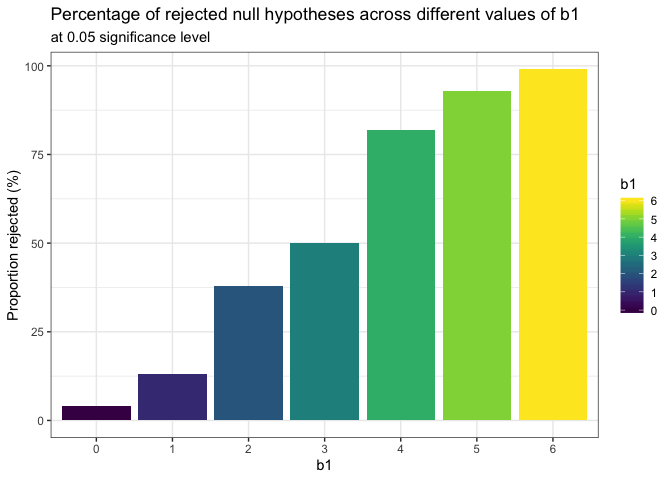
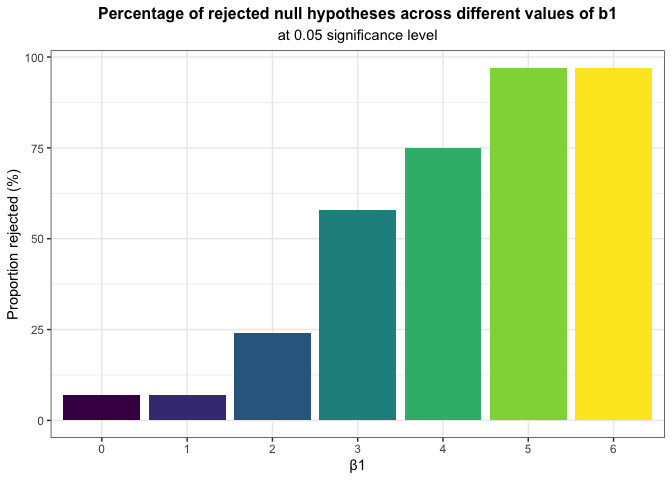
problem 3 -- last graph (without comment)

diff --git a/hw5.md b/hw5.md
@@ -162,7 +162,7 @@ patient_data_clean %>%
 ## Problem 3
 
 ``` r
-set.seed(77)
+set.seed(7)
 
 sim_regression = function(n = 30, beta0 = 2, beta1) { #make function for with set paramaters "variable" beta1
     sim_data = tibble(                                #tibble with x explanatory variable following normal distribution with mean = 0 and sd = 1
@@ -176,9 +176,9 @@ sim_regression = function(n = 30, beta0 = 2, beta1) { #make function for with se
 
 ``` r
 sim_results = 
-  tibble(b1 = c(0, 1, 2, 3, 4, 5, 6)) %>%            #start with a 6x1 tibble with true set b1 values 
+  tibble(beta1 = c(0, 1, 2, 3, 4, 5, 6)) %>%            #start with a 6x1 tibble with true set b1 values 
   mutate(
-    output_lists = map(.x = b1,                      #set values to iterate over as b1
+    output_lists = map(.x = beta1,                      #set values to iterate over as b1
                        ~rerun(100,                   #rerun a demo of 100 estimates per b1
                               sim_regression(beta1 = .x))), #mass apply using function sim_regression defined above
     estimate_dfs = map(output_lists,                 #mass apply bind_rows to output_lists
@@ -193,21 +193,67 @@ significance level 0.05 (estimate different from 0):
 ``` r
 sim_results %>% 
   filter(p.value < 0.05) %>%              #filter out only p-values less than 0.05 
-  group_by(b1) %>%                        #group by true parameter
-  summarize(pct_rej = 100*n()/100)%>%       #create variable pct
-  ggplot(aes(x = factor(b1),              #set variables for x, y axes and by group (b1)
+  group_by(beta1) %>%                     #group by true parameter
+  summarize(pct_rej = 100*n()/100)%>%     #create variable pct
+  ggplot(aes(x = factor(beta1),           #set variables for x, y axes and by group (beta1)
              y = pct_rej, 
-             fill = b1)) + 
+             fill = beta1)) + 
   geom_bar(stat = "identity") +           #create bar graph
   labs(title = "Percentage of rejected null hypotheses across different values of b1",
        subtitle = "at 0.05 significance level",
-       x = "b1",
+       x = "β1",
        y = "Proportion rejected (%)") +
   viridis::scale_fill_viridis() +         #choose viridis color scheme
-  theme(legend.position = "none",         #customize appearance/annotations
+  theme_bw() + 
+  theme(legend.position = "none",   #customize appearance/annotations
         plot.title = element_text(hjust = 0.5, size=12, face='bold'),
-        plot.subtitle = element_text(hjust = 0.5, size=11)) + 
-  theme_bw()
+        plot.subtitle = element_text(hjust = 0.5, size=11))
 ```
 
 ![](hw5_files/figure-gfm/unnamed-chunk-10-1.png)<!-- -->
+
+We can see that as effect size (difference between b1 and 0) increases,
+the proportion of the times the null hypothesis was rejected (the power)
+is higher. In other words, power of the test is positively associated
+with effect size. This is because as the population mean under the
+alternative hypothesis moves away from the mean under the null, the two
+distributions are less overlapped, resulting in lower type II error
+(falsely failing to reject the null) and increased
+power.
+
+``` r
+rej_null_df =                       #create dataset with only rejected null hypotheses
+  sim_results %>% 
+  filter(p.value < 0.05) %>%        #subset from original dataset with p-value < 0.05
+  group_by(beta1) %>%               #group by beta1 to calculate mean of slope estimates
+  mutate(avg_est = mean(estimate),  #make new variable for estimate mean (among filtered)
+         status = "reject")         #make new variable to indicate status of the slope estimate (different from 0) and estimate mean
+
+original_sim_df =                   #do the same thing as above for original dataset
+  sim_results %>% 
+  group_by(beta1) %>%  
+  mutate(avg_est = mean(estimate),  #same variable as above for estimate mean (among all)
+         status = "all")            #same var as above to indicate the estimate mean is for all slope estimates
+
+sim_results_df = rbind(original_sim_df, rej_null_df)  #row bind filtered and original datasets
+  
+sim_results_df %>% 
+  ggplot(aes(x = beta1,                  #set values for x, y axes and group for plot
+             y = avg_est,
+             colour = status)) + 
+  geom_point(size = 2, alpha =  0.7) +   #add points and customize
+  geom_line(alpha = 0.7) +               #add line through points and customize
+  labs(title = "Plot showing average estimate of β̂1 \nand true value of β1",
+       x = "β1",
+       y = "β̂1",
+       color = "Dataset") +              #add graph and axis title
+  theme_bw() + 
+  theme(plot.title =                     #customize annotations
+          element_text(hjust = 0.5, 
+                       size=12, 
+                       face='bold')) +
+  scale_x_continuous(breaks = seq(0, 6, by = 1)) +  #make interval = 1 on x and y axes
+  scale_y_continuous(breaks = seq(0, 6, by = 1)) 
+```
+
+![](hw5_files/figure-gfm/unnamed-chunk-11-1.png)<!-- -->
